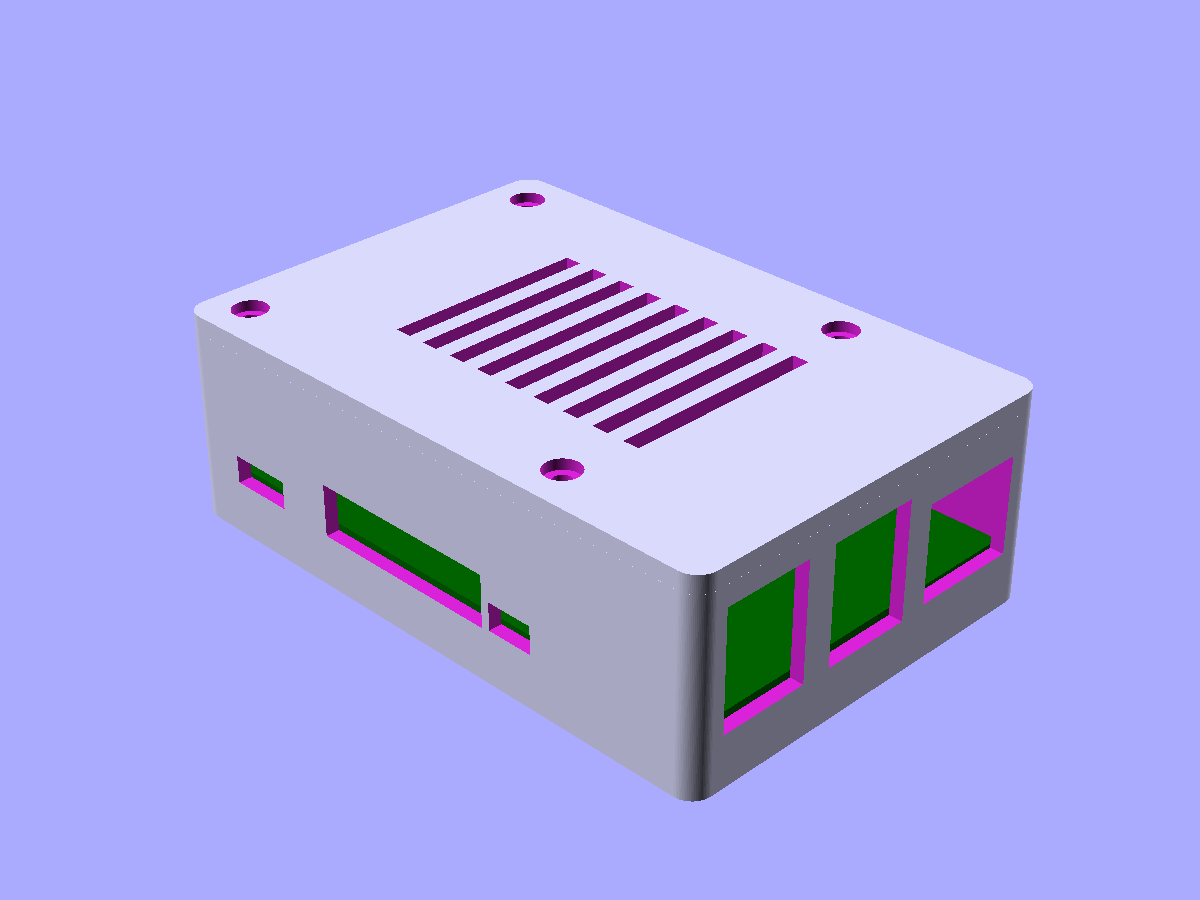
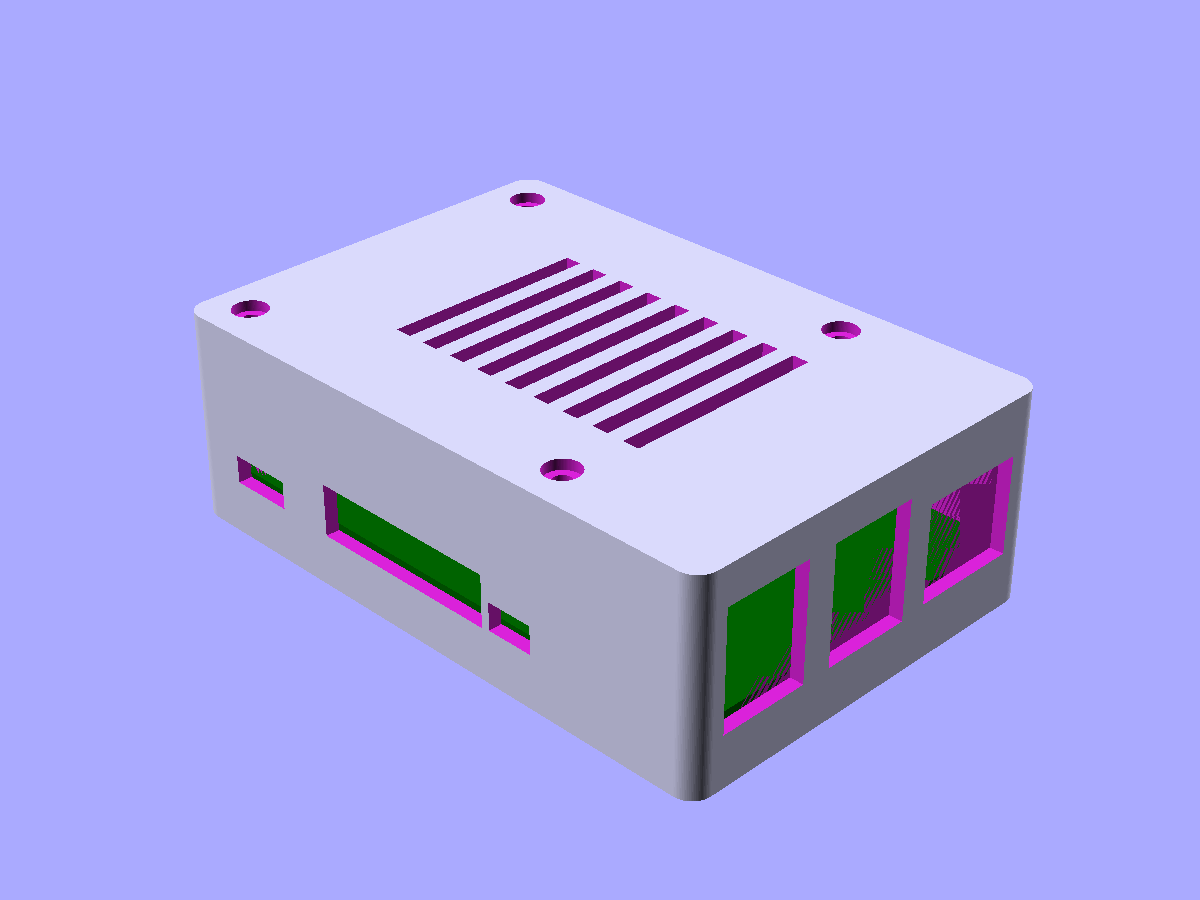
example/electronics-case: style-guide pass for elegance
Five changes leaning on scadwright's through()/attach() idioms:

1. countersunk_hole drops length=200 and EPS. The shaft now sizes
   itself to the node's z-extent with .through(node, axis="z"); the
   head does the same for its top face. No magic constant, no EPS.

2. vent_slot_array drops z_thru=20. Slots are built to match the
   node's z-extent and extended with .through(node, axis="z").

3. port_cutout was using bulk = max(b.size) + 20 to size its cutter,
   which happened to miss the opposite wall for the Pi4 dimensions but
   would cut ghost ports for other proportions. Now takes wall_thk,
   sizes the cutter to exactly wall_thk deep at the target face, and
   uses .through(node, axis=...) for clean extension. CaseBase.build()
   threads self.wall_thk through to the transform call.

4. Display variant uses self.lid.attach(self.base, fuse=True) instead
   of self.lid.up(outer_size[2] + EPS).

5. Module-level EPS removed -- all four uses gone after 1-4.

Also: docstring typo "vent_slot" corrected to "vent_slot_array" to
match the transform name.

Changed region(s): [[0.7708, 0.5289, 0.8325, 0.6533], [0.6783, 0.6222, 0.74, 0.7156], [0.6167, 0.7467, 0.6475, 0.7778]]

diff --git a/examples/electronics-case.py b/examples/electronics-case.py
@@ -9,7 +9,7 @@ Demonstrates (complex scope):
 - Cross-Component publishing: `CaseBase` exposes `mount_positions`,
   `outer_size`, `pcb_top_z`; `CaseLid` reads them to align.
 - Three custom transforms (`port_cutout`, `countersunk_hole`,
-  `vent_slot`) applied repeatedly.
+  `vent_slot_array`) applied repeatedly.
 - Multi-instantiation driven by spec data: N standoffs from
   `pcb.mount_holes`, M port cutouts from `pcb.ports`.
 - A `Design` with print and display variants — `print_base` and
@@ -30,13 +30,6 @@ from scadwright.design import Design, run, variant
 from scadwright.primitives import cube, cylinder
 from scadwright.shapes import Tube, rounded_rect
 from scadwright.transforms import transform
-
-
-# =============================================================================
-# GLOBALS
-# =============================================================================
-
-EPS = 0.01
 
 
 # =============================================================================
@@ -70,50 +63,61 @@ PI4 = PCBSpec(
 
 
 @transform("port_cutout", inline=True)
-def port_cutout(node, *, face, at_along, at_z, width, height):
-    """Cut a rectangular port through one wall of a box-like node."""
+def port_cutout(node, *, face, at_along, at_z, width, height, wall_thk):
+    """Cut a rectangular port through one wall of a box-like node.
+
+    The cutter is sized to `wall_thk` deep (matching the case wall) and
+    positioned flush against the chosen face. `through()` extends it
+    outward so the boolean is clean without touching the opposite wall.
+    """
     b = bbox(node)
-    bulk = max(b.size) + 20
     if face in ("+x", "-x"):
-        cutter = cube([bulk, width, height], center=True)
-        x_pos = b.max[0] if face == "+x" else b.min[0]
-        cutter = cutter.translate([x_pos, at_along, at_z])
+        cutter = cube([wall_thk, width, height])
+        x = b.max[0] - wall_thk if face == "+x" else b.min[0]
+        cutter = cutter.translate([x, at_along - width / 2, at_z - height / 2])
+        cutter = cutter.through(node, axis="x")
     elif face in ("+y", "-y"):
-        cutter = cube([width, bulk, height], center=True)
-        y_pos = b.max[1] if face == "+y" else b.min[1]
-        cutter = cutter.translate([at_along, y_pos, at_z])
+        cutter = cube([width, wall_thk, height])
+        y = b.max[1] - wall_thk if face == "+y" else b.min[1]
+        cutter = cutter.translate([at_along - width / 2, y, at_z - height / 2])
+        cutter = cutter.through(node, axis="y")
     else:
         raise ValueError(f"port_cutout: face must be +x/-x/+y/-y, got {face!r}")
     return difference(node, cutter)
 
 
 @transform("countersunk_hole", inline=True)
-def countersunk_hole(node, *, at, shaft_d, head_d, head_depth, length=200):
+def countersunk_hole(node, *, at, shaft_d, head_d, head_depth):
     """Drill a countersunk through-hole at `at=(x, y)` along the z-axis."""
     x, y = at
     b = bbox(node)
     shaft = (
-        cylinder(h=length, d=shaft_d, center=True)
-        .translate([x, y, b.center[2]])
+        cylinder(h=b.size[2], d=shaft_d)
+        .translate([x, y, b.min[2]])
+        .through(node, axis="z")
     )
-    head_top_z = b.max[2] + EPS
     head = (
-        cylinder(h=head_depth + EPS, d=head_d)
-        .translate([x, y, head_top_z - head_depth])
+        cylinder(h=head_depth, d=head_d)
+        .translate([x, y, b.max[2] - head_depth])
+        .through(node, axis="z")
     )
     return difference(node, shaft, head)
 
 
 @transform("vent_slot_array", inline=True)
-def vent_slot_array(node, *, count, slot_w, slot_l, spacing, z_thru=20):
-    """Cut an array of long thin ventilation slots through the +z face."""
+def vent_slot_array(node, *, count, slot_w, slot_l, spacing):
+    """Cut an array of long thin ventilation slots through the +z face.
+
+    Each slot is sized to the node's z-extent and extended via `through()`
+    so the boolean is clean on both top and bottom faces.
+    """
+    b = bbox(node)
     half = (count - 1) * spacing / 2
     slots = union(*[
-        cube([slot_w, slot_l, z_thru], center=True).translate([-half + i * spacing, 0, 0])
+        cube([slot_w, slot_l, b.size[2]], center="xy")
+            .translate([-half + i * spacing, 0, b.min[2]])
         for i in range(count)
-    ])
-    b = bbox(node)
-    slots = slots.up(b.max[2])
+    ]).through(node, axis="z")
     return difference(node, slots)
 
 
@@ -182,6 +186,7 @@ class CaseBase(Component):
                 at_z=self.pcb_top_z + port.z_above_pcb,
                 width=port.width,
                 height=port.height,
+                wall_thk=self.wall_thk,
             )
 
         return body
@@ -271,8 +276,7 @@ class ProjectBox(Design):
             .up(self.base.floor_thk + self.base.standoff_h)
             .color("darkgreen")
         )
-        lid_mounted = self.lid.up(self.base.outer_size[2] + EPS)
-        return union(self.base, pcb, lid_mounted)
+        return union(self.base, pcb, self.lid.attach(self.base, fuse=True))
 
 
 if __name__ == "__main__":
